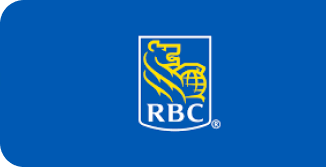
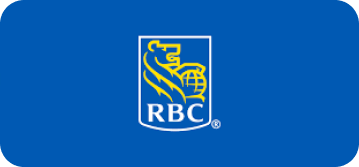
replace rbc image with not cut off version

diff --git a/src/app/Sponsors.jsx b/src/app/Sponsors.jsx
@@ -4,7 +4,7 @@ export default function Sponsors(){
             <img src="mckinsey.png" alt="mckinsey" className="w-96"/>
             <img src="wealthsimple.png" alt="wealthsimple" className="w-96"/>
             <img src="aws.png" alt="aws" className="w-96"/>
-            <img src="rbc.png" alt="rbc" className="w-96 rounded-3xl"/>     {/* This is rounded to make it look better but logo is off-centered! */}
+            <img src="rbc.png" alt="rbc" className="w-96"/>     {/* This is rounded to make it look better but logo is off-centered! */}
         </>
     )
 }
